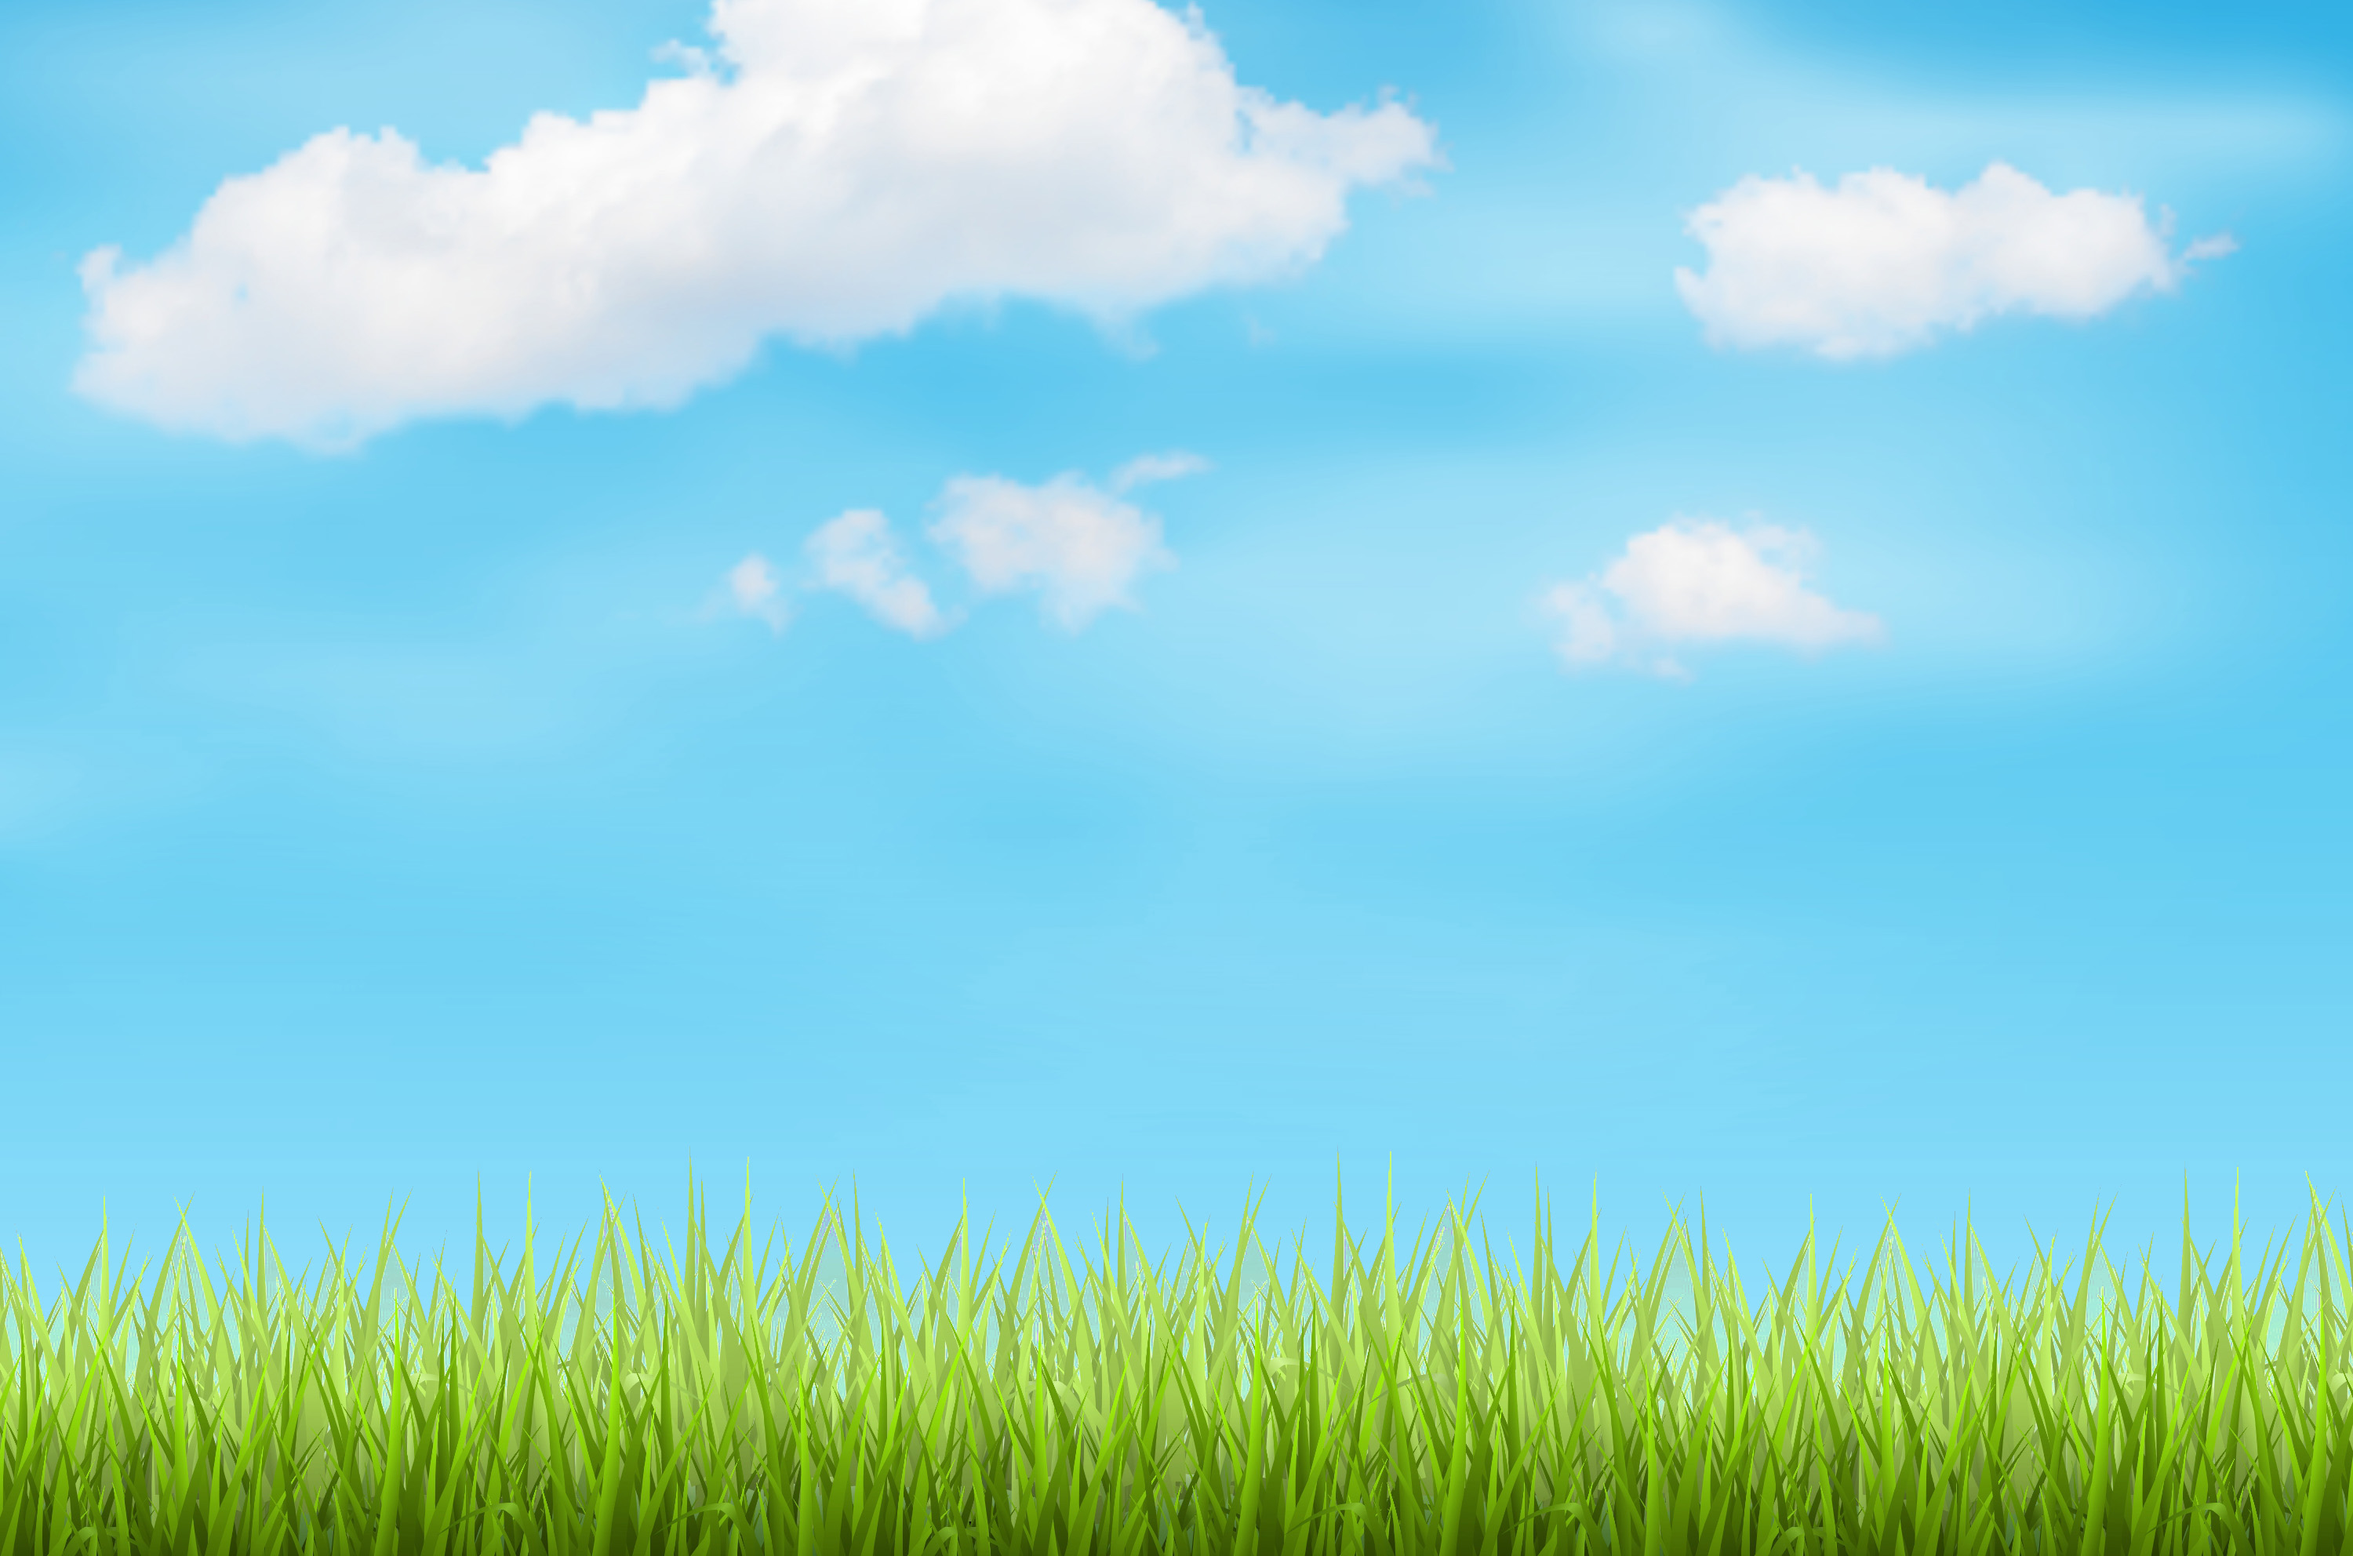
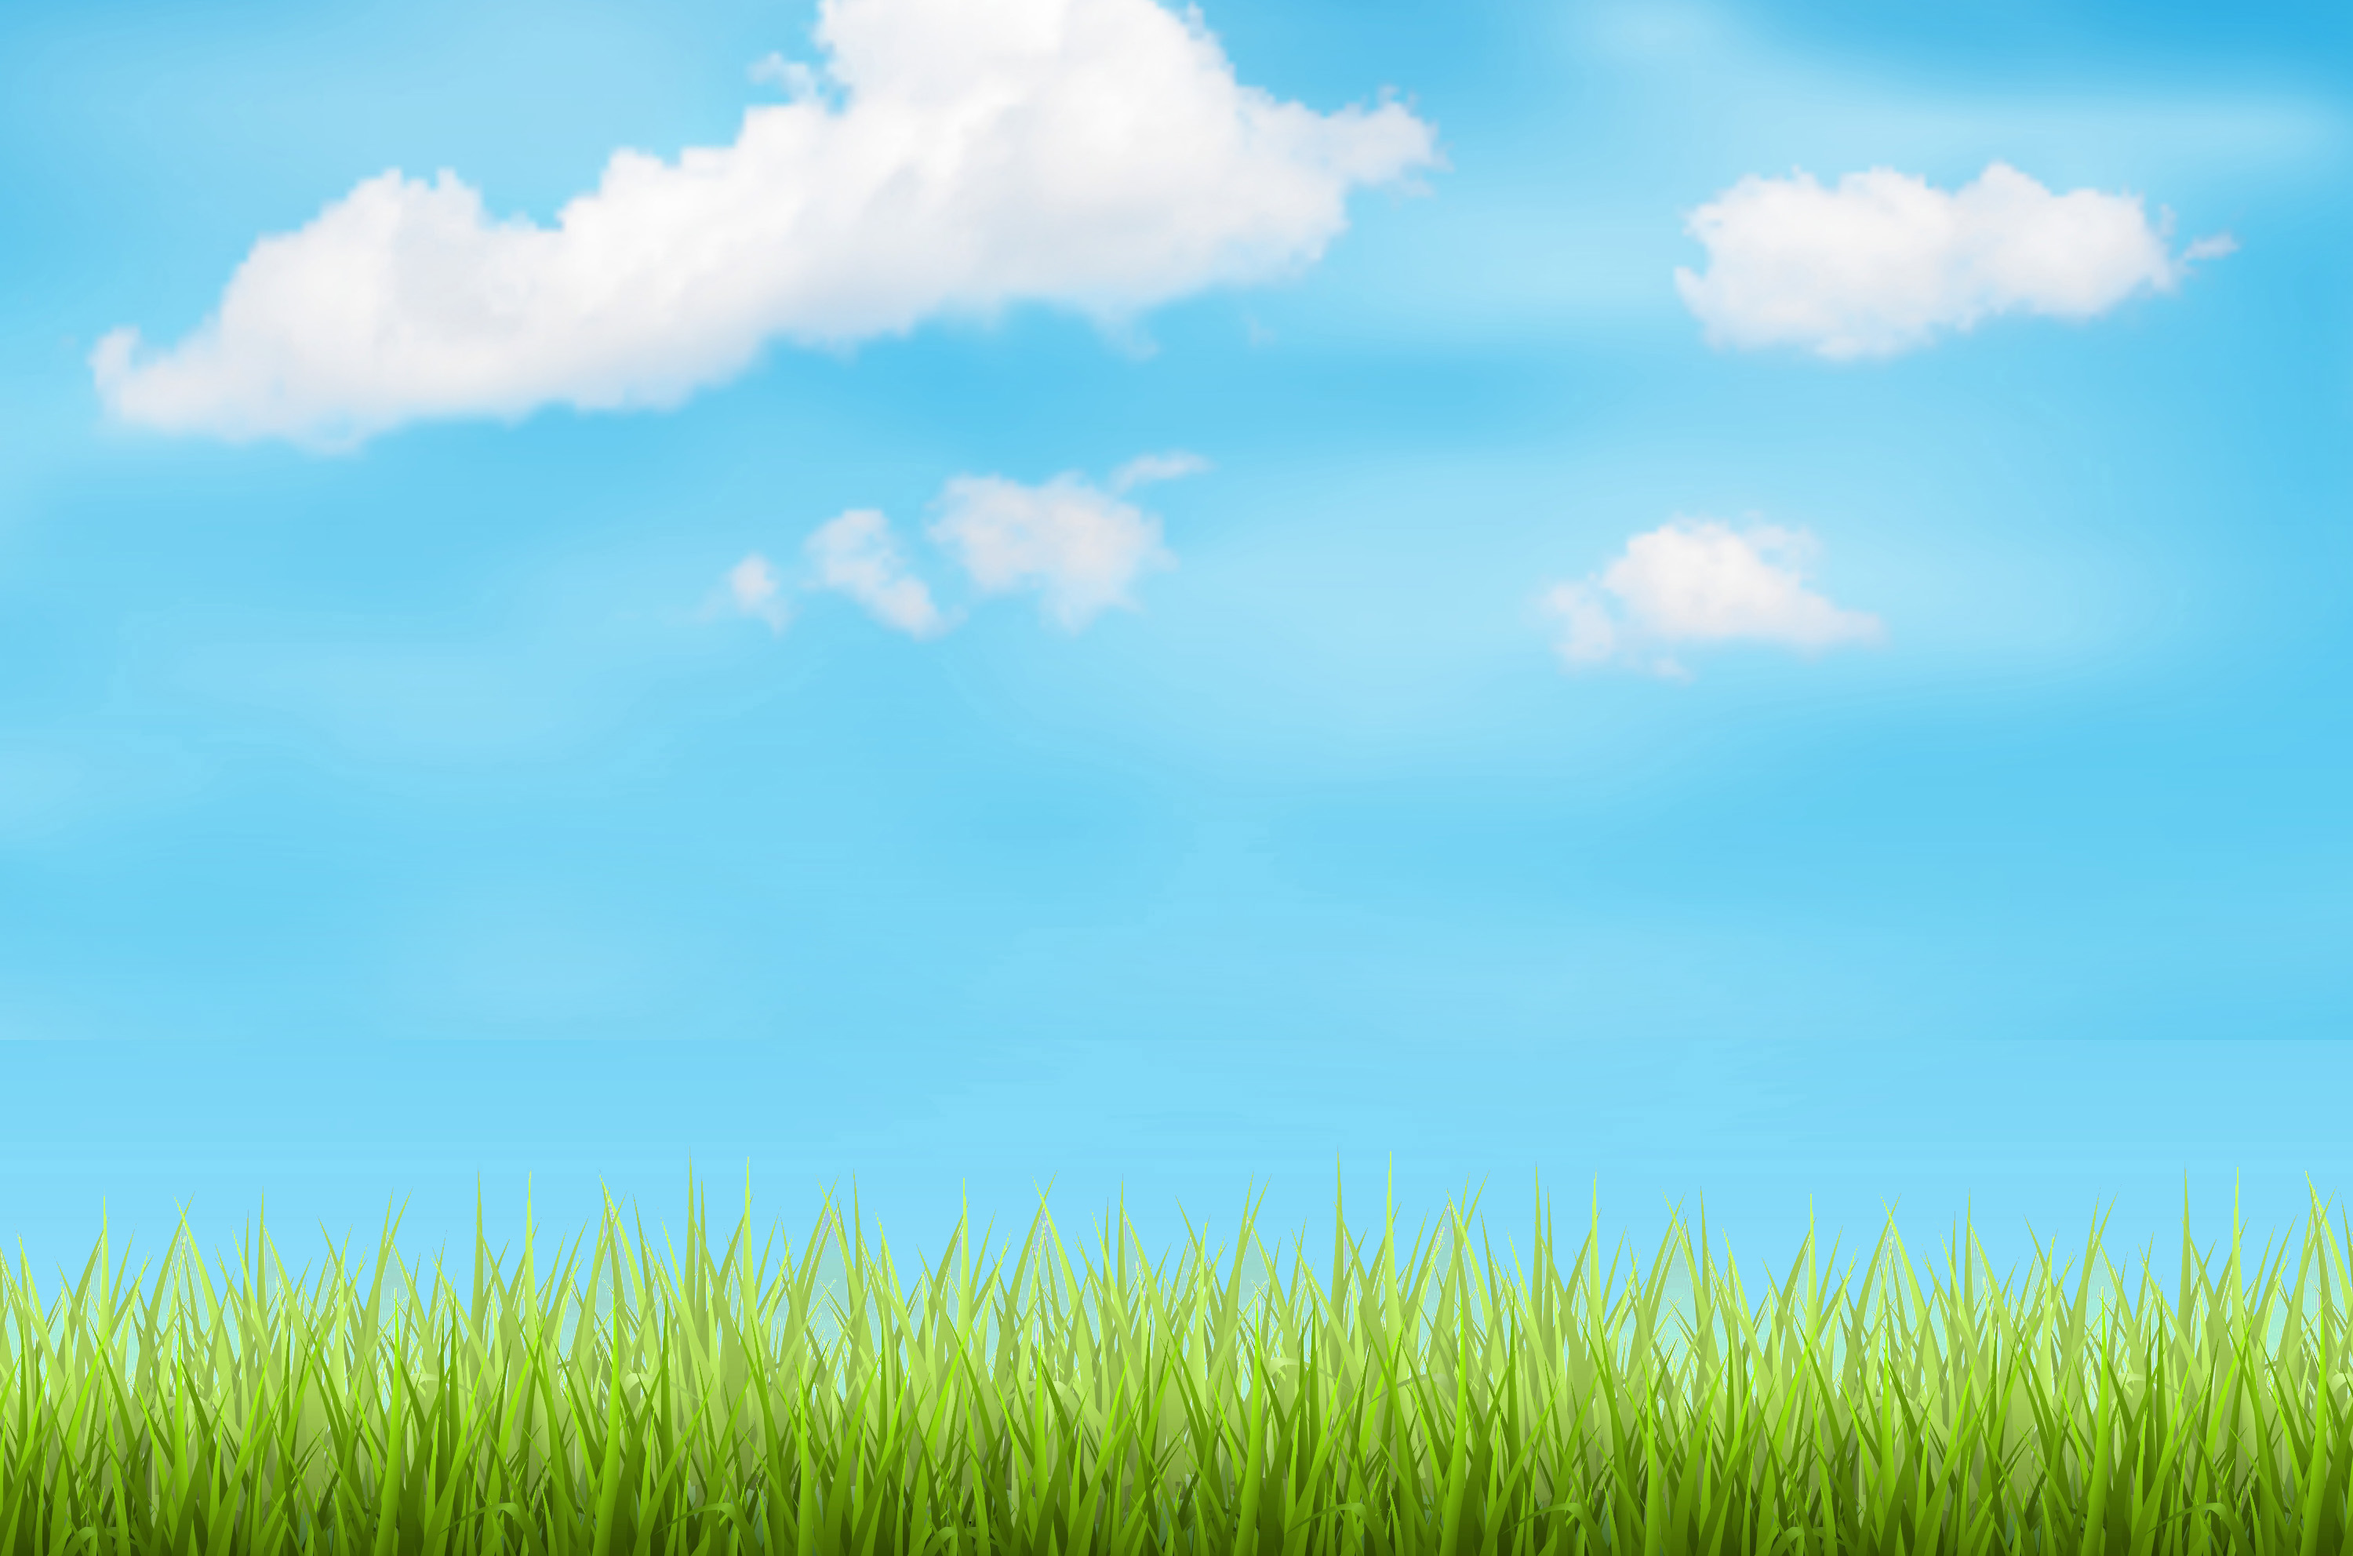
fixing the background

Changed region(s): [[0.031, 0.0, 0.403, 0.2812], [0.527, 0.0625, 0.558, 0.0938], [0.403, 0.1875, 0.434, 0.2188]]

diff --git a/styles.css b/styles.css
@@ -4,14 +4,14 @@ body {
   /* display: flex;
   flex-direction: row; 
   justify-content: space-around; */
-  background: url("assets/background.jpg") no-repeat center; 
+  background: url("assets/background.jpg") no-repeat bottom; 
   background-size: 100% 100%;
 }
 
 .header {
   font-family: "Baloo Thambi", cursive;
   font-size: 14px;
-  color: darkblue;
+  color: white;
   position: absolute; 
   top: 20px;
   left: 20px;
@@ -32,7 +32,7 @@ body {
 
 h1 span {
   position: relative;
-  top: 20px;
+  top: 5px;
   animation: bounce .3s ease infinite alternate;
 }
 
